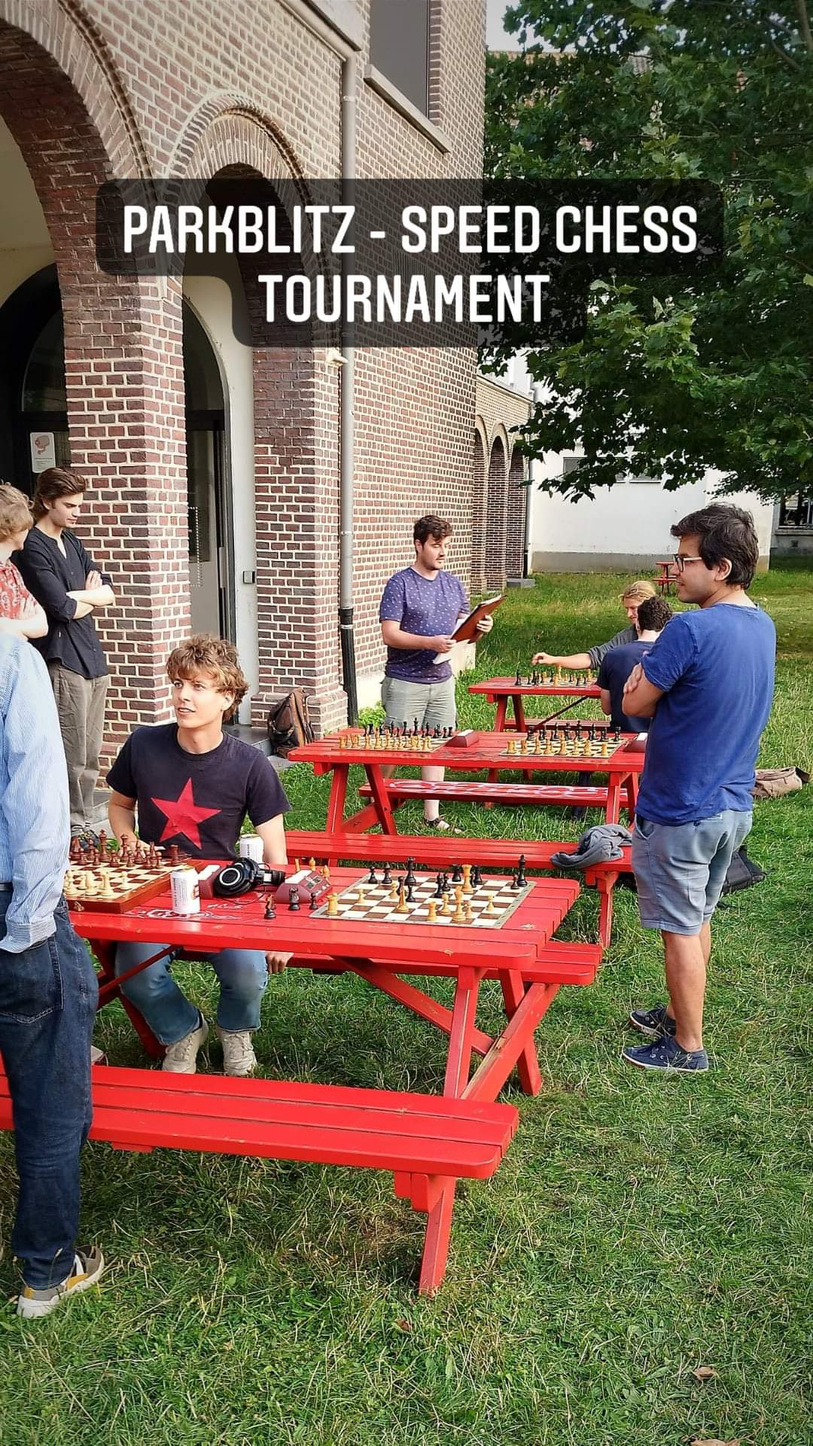
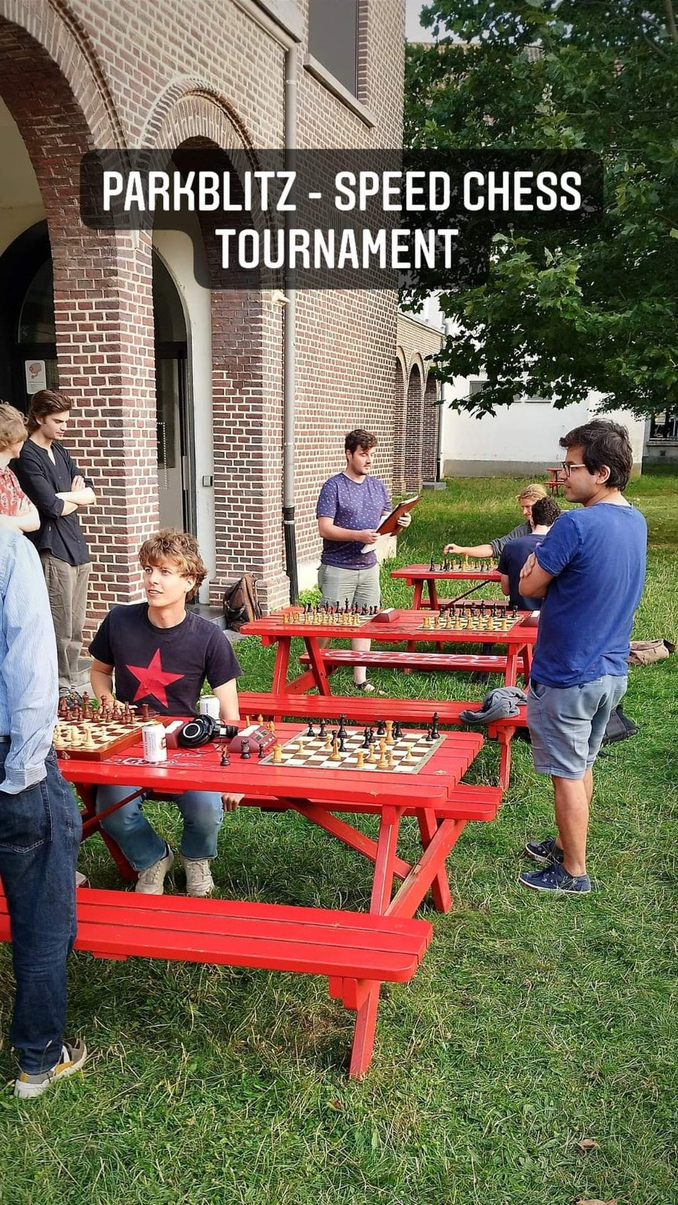
Downscale gallery photos and add lazy-loading + dimensions
Post-review fix pass: gallery was 16.6MB of full-resolution photos,
eagerly loaded with no width/height (causing layout shift).

- Resized all 8 gallery-*.jpg so the longest edge is at most 1600px
  (aspect ratio preserved, re-saved as JPEG quality 85). Total size
  dropped from 16.6MB to 2.3MB.
- Recorded final pixel dimensions in _data/gallery.yml as width/height
  fields.
- nl/gallery.md and en/gallery.md: add loading="lazy" and explicit
  width/height attributes to the <img> tags.

Changed region(s): [[0.56, 0.3125, 0.6533, 0.4062], [0.4667, 0.9375, 0.4978, 0.9688]]

diff --git a/en/gallery.md b/en/gallery.md
@@ -6,6 +6,6 @@ permalink: /en/gallery/
 ---
 <ul class="gallery-grid">
 {% for item in site.data.gallery %}
-  <li><img src="{{ "/assets/img/gallery/" | append: item.file | relative_url }}" alt="{{ item.alt_en }}"></li>
+  <li><img src="{{ "/assets/img/gallery/" | append: item.file | relative_url }}" alt="{{ item.alt_en }}" width="{{ item.width }}" height="{{ item.height }}" loading="lazy"></li>
 {% endfor %}
 </ul>

diff --git a/nl/gallery.md b/nl/gallery.md
@@ -6,6 +6,6 @@ permalink: /nl/gallery/
 ---
 <ul class="gallery-grid">
 {% for item in site.data.gallery %}
-  <li><img src="{{ "/assets/img/gallery/" | append: item.file | relative_url }}" alt="{{ item.alt_nl }}"></li>
+  <li><img src="{{ "/assets/img/gallery/" | append: item.file | relative_url }}" alt="{{ item.alt_nl }}" width="{{ item.width }}" height="{{ item.height }}" loading="lazy"></li>
 {% endfor %}
 </ul>
